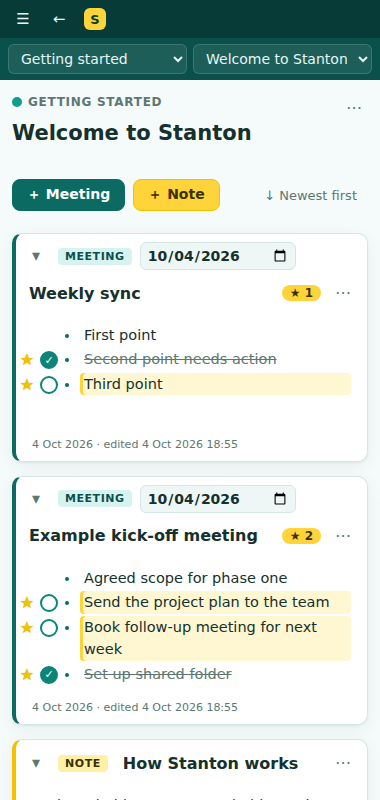
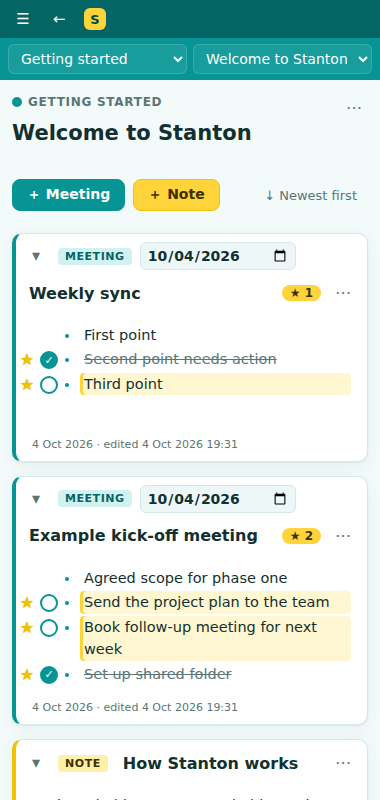
Switch teal palette to #069494 and add Windows release workflow
Re-base the teal scale, icon and defaults on #069494. Add a GitHub
Actions workflow that builds the NSIS installer, portable exe and zip
on windows-latest and publishes a GitHub Release for v* tags.

Claude-Session: https://claude.ai/code/session_01VyzCRqGuqdEo2rihHkCdQM

diff --git a/src/styles/app.css b/src/styles/app.css
@@ -1,56 +1,56 @@
 /* Stanton — teal & yellow */
 :root {
-  --teal-900: #063b37;
-  --teal-800: #0a514b;
-  --teal-700: #0b6b63;
-  --teal-600: #0d8478;
-  --teal-500: #12a090;
-  --teal-300: #7fd6cb;
-  --teal-100: #d7f3ef;
-  --teal-50: #eef9f7;
+  --teal-900: #034444;
+  --teal-800: #046565;
+  --teal-700: #057a7a;
+  --teal-600: #069494;
+  --teal-500: #08b0b0;
+  --teal-300: #7fd4d4;
+  --teal-100: #d2f1f1;
+  --teal-50: #ecf8f8;
   --yellow-600: #c99a00;
   --yellow-500: #f2c200;
   --yellow-400: #ffd43b;
   --yellow-200: #fff0a8;
   --yellow-100: #fff7d1;
 
-  --bg: #f4fbfa;
+  --bg: #f3fafa;
   --surface: #ffffff;
-  --surface-2: #eef7f6;
-  --border: #d5e7e4;
-  --text: #15302d;
-  --muted: #5d7773;
-  --primary: var(--teal-700);
-  --primary-hover: var(--teal-800);
+  --surface-2: #edf7f7;
+  --border: #d3e8e8;
+  --text: #133030;
+  --muted: #5a7676;
+  --primary: var(--teal-600);
+  --primary-hover: var(--teal-700);
   --accent: var(--yellow-400);
   --accent-text: #3d3000;
   --star: var(--yellow-500);
   --action-bg: var(--yellow-100);
-  --sidebar-bg: var(--teal-800);
-  --sidebar-text: #e6f6f4;
-  --sidebar-muted: #9fcfc8;
+  --sidebar-bg: var(--teal-600);
+  --sidebar-text: #ffffff;
+  --sidebar-muted: #c9eeee;
   --sidebar-hover: rgba(255, 255, 255, 0.08);
   --sidebar-active: rgba(255, 212, 59, 0.18);
-  --titlebar-bg: var(--teal-900);
+  --titlebar-bg: var(--teal-800);
   --danger: #c0392b;
-  --shadow: 0 1px 2px rgba(6, 59, 55, 0.06), 0 4px 16px rgba(6, 59, 55, 0.06);
+  --shadow: 0 1px 2px rgba(3, 68, 68, 0.06), 0 4px 16px rgba(3, 68, 68, 0.06);
   --radius: 10px;
   color-scheme: light;
 }
 
 @media (prefers-color-scheme: dark) {
   :root {
-    --bg: #0b1f1e;
-    --surface: #102a28;
-    --surface-2: #143331;
-    --border: #1f4643;
-    --text: #e3f3f1;
-    --muted: #8fb3ae;
+    --bg: #0a1e1e;
+    --surface: #0f2929;
+    --surface-2: #133232;
+    --border: #1e4545;
+    --text: #e2f3f3;
+    --muted: #8db3b3;
     --primary: var(--teal-500);
-    --primary-hover: #17b8a6;
+    --primary-hover: #0bc4c4;
     --action-bg: rgba(255, 212, 59, 0.12);
-    --sidebar-bg: #082a27;
-    --titlebar-bg: #051c1a;
+    --sidebar-bg: #064d4d;
+    --titlebar-bg: #033a3a;
     --shadow: 0 1px 2px rgba(0, 0, 0, 0.3), 0 4px 16px rgba(0, 0, 0, 0.25);
     color-scheme: dark;
   }
@@ -89,7 +89,7 @@ button:disabled { cursor: default; opacity: 0.4; }
   gap: 2px;
   padding-left: 6px;
   background: var(--titlebar-bg);
-  color: #e6f6f4;
+  color: #ffffff;
   -webkit-app-region: drag;
   user-select: none;
 }
@@ -180,7 +180,7 @@ button:disabled { cursor: default; opacity: 0.4; }
 .hit-meta { font-size: 12px; color: var(--yellow-400); }
 .hit-snippet { font-size: 12px; color: var(--sidebar-muted); overflow: hidden; display: -webkit-box; -webkit-line-clamp: 2; -webkit-box-orient: vertical; }
 
-.drawer-backdrop { position: absolute; inset: 0; z-index: 30; background: rgba(4, 30, 28, 0.4); }
+.drawer-backdrop { position: absolute; inset: 0; z-index: 30; background: rgba(2, 34, 34, 0.4); }
 .drawer { height: 100%; width: min(300px, 88%); display: flex; box-shadow: var(--shadow); }
 .drawer .sidebar { width: 100%; }
 
@@ -196,6 +196,7 @@ button:disabled { cursor: default; opacity: 0.4; }
   display: inline-block; min-width: 20px; padding: 0 6px; border-radius: 999px; text-align: center;
   background: var(--teal-100); color: var(--teal-800); font-size: 12px; font-weight: 600;
 }
+.sidebar .dot, .quick-switcher .dot { box-shadow: 0 0 0 2px rgba(255, 255, 255, 0.85); }
 .sidebar .count { background: rgba(255, 255, 255, 0.12); color: var(--sidebar-text); }
 .icon-btn {
   width: 28px; height: 28px; flex: none; display: inline-grid; place-items: center;
@@ -410,7 +411,7 @@ li > .ap-gutter .ap-star.is-on { opacity: 1; color: var(--star); text-shadow: 0 
 /* ---------- Menus & dialogs ---------- */
 .menu {
   position: fixed; z-index: 100; min-width: 180px; max-height: 70vh; overflow-y: auto; padding: 4px;
-  background: var(--surface); border: 1px solid var(--border); border-radius: 10px; box-shadow: 0 8px 30px rgba(6, 59, 55, 0.2);
+  background: var(--surface); border: 1px solid var(--border); border-radius: 10px; box-shadow: 0 8px 30px rgba(3, 68, 68, 0.2);
 }
 .menu-item {
   display: flex; align-items: center; gap: 8px; width: 100%; padding: 7px 10px; border: 0; border-radius: 6px;
@@ -422,7 +423,7 @@ li > .ap-gutter .ap-star.is-on { opacity: 1; color: var(--star); text-shadow: 0 
 .menu-icon { width: 18px; text-align: center; }
 .menu-sep { height: 1px; background: var(--border); margin: 4px 0; }
 
-.modal-backdrop { position: fixed; inset: 0; z-index: 200; display: grid; place-items: center; background: rgba(4, 30, 28, 0.45); padding: 16px; }
+.modal-backdrop { position: fixed; inset: 0; z-index: 200; display: grid; place-items: center; background: rgba(2, 34, 34, 0.45); padding: 16px; }
 .modal {
   width: min(420px, 100%); background: var(--surface); border-radius: 12px; padding: 18px 20px;
   border-top: 4px solid var(--yellow-400); box-shadow: 0 20px 50px rgba(0, 0, 0, 0.25);

diff --git a/src/lib/util.ts b/src/lib/util.ts
@@ -23,4 +23,4 @@ export function formatDateTime(iso: string): string {
   return `${formatDate(todayIso(d))} ${String(d.getHours()).padStart(2, '0')}:${String(d.getMinutes()).padStart(2, '0')}`;
 }
 
-export const PROJECT_COLORS = ['#0f9d8f', '#e0b100', '#2a7fb8', '#d9603b', '#7b5ea7', '#3a9d4a', '#c2417a', '#5f6b73'];
+export const PROJECT_COLORS = ['#069494', '#e0b100', '#2a7fb8', '#d9603b', '#7b5ea7', '#3a9d4a', '#c2417a', '#5f6b73'];

diff --git a/src/lib/seed.ts b/src/lib/seed.ts
@@ -17,7 +17,7 @@ export function seedData(): StantonData {
   });
   return {
     ...emptyData(),
-    projects: [{ id: projectId, name: 'Getting started', color: '#0f9d8f', createdAt: now }],
+    projects: [{ id: projectId, name: 'Getting started', color: '#069494', createdAt: now }],
     pages: [{ id: pageId, projectId, title: 'Welcome to Stanton', createdAt: now }],
     entries: [
       {

diff --git a/electron/main.ts b/electron/main.ts
@@ -71,7 +71,7 @@ function createWindow() {
     frame: false,
     show: false,
     title: 'Stanton',
-    backgroundColor: nativeTheme.shouldUseDarkColors ? '#0b1f1e' : '#f4fbfa',
+    backgroundColor: nativeTheme.shouldUseDarkColors ? '#0a1e1e' : '#f3fafa',
     icon: path.join(__dirname, '../build/icon.png'),
     webPreferences: {
       preload: path.join(__dirname, 'preload.js'),

diff --git a/README.md b/README.md
@@ -36,13 +36,25 @@ npm test           # unit tests
 npm run typecheck
 ```
 
-## Building a Windows installer
+## Releases
+
+Push a version tag and GitHub Actions builds Stanton on Windows and publishes a GitHub Release
+with an installer, a portable `.exe` and a `.zip`:
+
+```bash
+npm version patch            # bumps package.json and creates a tag such as v0.1.1
+git push --follow-tags
+```
+
+The workflow can also be run by hand from the Actions tab. The build is uploaded as a workflow artifact and no release is created.
+
+## Building a Windows installer locally
 
 Run this on Windows:
 
 ```bash
 npm install
-npm run dist       # → release/Stanton Setup x.y.z.exe and a portable .exe
+npm run dist       # → release/Stanton-Setup-x.y.z.exe, a portable .exe and a .zip
 ```
 
 To cross-build from Linux or macOS, first install the Windows build of the FFI library that the dock uses:
